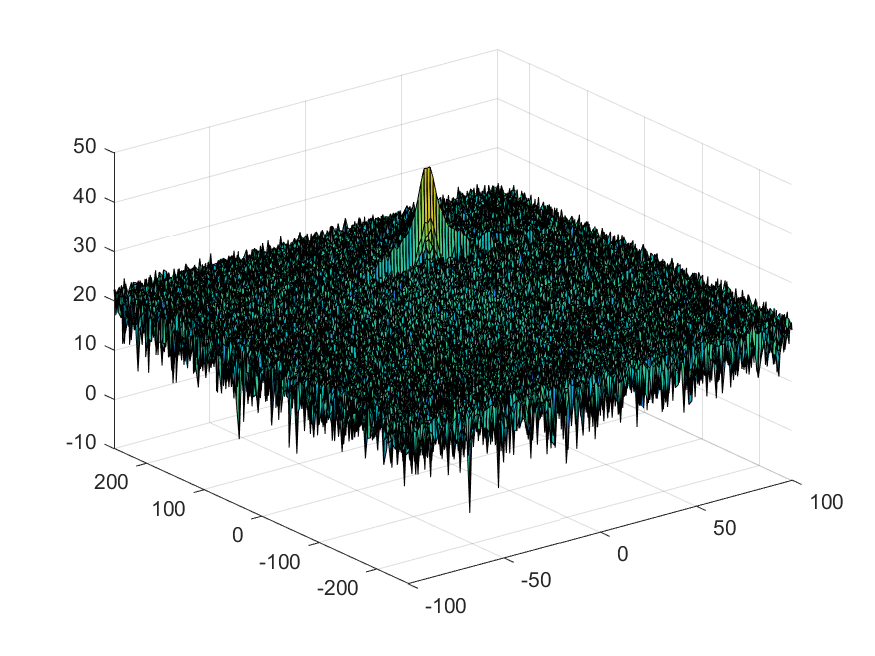
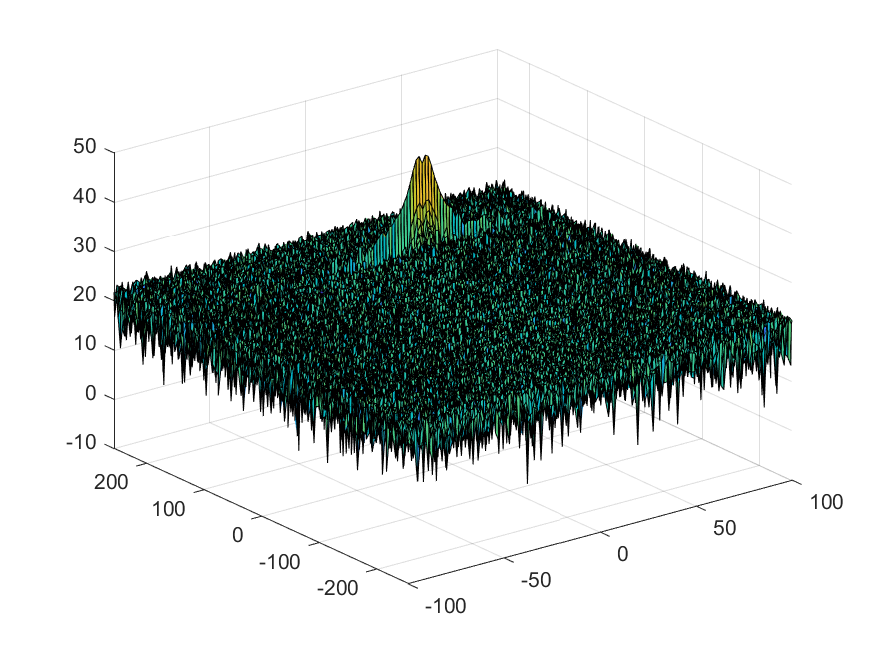
Figures are updated

Changed region(s): [[0.1234, 0.2439, 0.9257, 0.7622]]

diff --git a/RadarObjectDetection.m b/RadarObjectDetection.m
@@ -15,8 +15,8 @@ Rmax = 200;
 % *%TODO* :
 % define the target's initial position and velocity. Note : Velocity
 % remains constant
- R = 110;
- v = 20;
+ R = 150;
+ v = 30;
  x = R;
 
 %% FMCW Waveform Generation
